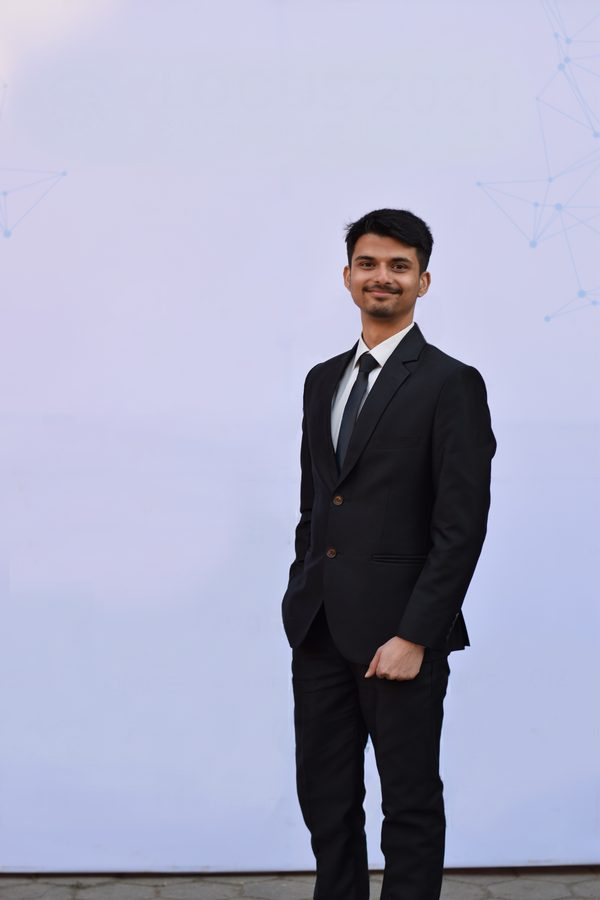
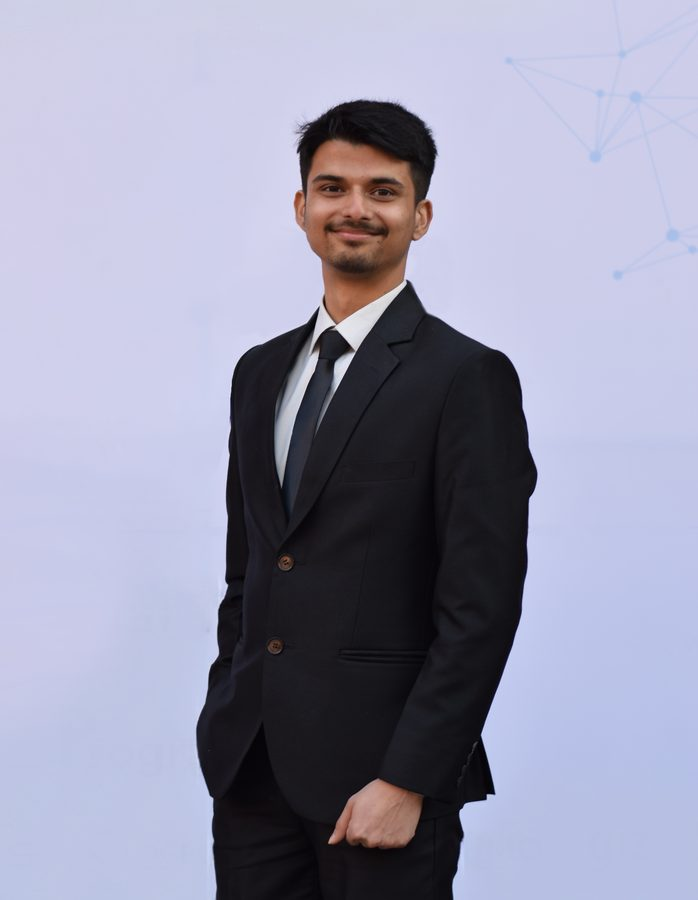
Fill in roles and photos for Gaurav, Jebish, and Niranjan
Roles came from the uploaded filenames: Jebish Pradhan (Vice
President), Gaurav Neupane (Secretary), Niranjan Chapagain
(Membership Growth Chairperson). Placed VP and Secretary near the
top alongside President/IT Lead as senior officer roles. Also
replaced Prabin Paudel's photo with the higher-res version that was
re-uploaded (compressed from 7.4MB to 28KB, same photo). All new
photos compressed and moved into public/team/ with clean filenames.

diff --git a/src/pages/Team.jsx b/src/pages/Team.jsx
@@ -4,7 +4,9 @@
 // entry below with { name, role, photo, linkedin? }.
 const MEMBERS = [
   { name: "Prabin Paudel", role: "President", photo: "/team/prabin-paudel.jpg", linkedin: "https://www.linkedin.com/in/prabin-paudel-a8a315231/" },
+  { name: "Jebish Pradhan", role: "Vice President", photo: "/team/jebish-pradhan.jpg", linkedin: "https://www.linkedin.com/in/jebishpradhan/" },
   { name: "Pawan Raj Pandey", role: "IT Lead", photo: "/team/pawan-raj-pandey.jpg", linkedin: "https://www.linkedin.com/in/pawanrajpandey/" },
+  { name: "Gaurav Neupane", role: "Secretary", photo: "/team/gaurav-neupane.jpg", linkedin: "https://www.linkedin.com/in/gaurav-neupane-64a0122a3/" },
 
   { name: "Sijen Dangol", role: "Immediate Past President", photo: "/team/sijen-dangol.jpg", linkedin: "https://www.linkedin.com/in/sijendangol/" },
   { name: "Ujjwal Karki", role: "Past President 24-25", photo: "/team/ujjwal-karki.jpg" },
@@ -16,15 +18,11 @@ const MEMBERS = [
   { name: "Prabin Buddhacharya", role: "Treasurer", photo: "/team/prabin-buddhacharya.jpg", linkedin: "https://www.linkedin.com/in/beprabin/" },
   { name: "Dilshan Mansuri", role: "Business Head", photo: "/team/dilshan-mansuri.jpg", linkedin: "https://www.linkedin.com/in/dilshan-mansuri-429a0327b/" },
   { name: "Mili Koirala", role: "Chief Empowerment Officer", photo: "/team/mili-koirala.jpg", linkedin: "https://www.linkedin.com/in/mili-koirala/" },
+  { name: "Niranjan Chapagain", role: "Membership Growth Chairperson", photo: "/team/niranjan-chapagain.jpg", linkedin: "https://www.linkedin.com/in/niranjan-chapagain-97453624a/" },
   { name: "Pratima Paudel", role: "Women Empowerment Officer", photo: "/team/pratima-paudel.jpg" },
   { name: "Prerana Poudel", role: "Health Head", photo: "/team/prerana-poudel.jpg" },
   { name: "Rasmita KC", role: "Health Advisor", photo: "/team/rasmita-kc.jpg", linkedin: "https://www.linkedin.com/in/rasmita-k-c-26623b3b9/" },
   { name: "Priyanka Bajracharya", role: "Finance Advisor", photo: "/team/priyanka-bajracharya.jpg" },
-
-  // Added via LinkedIn links only — no photo or confirmed role yet.
-  { name: "Jebish Pradhan", role: "Member", linkedin: "https://www.linkedin.com/in/jebishpradhan/" },
-  { name: "Niranjan Chapagain", role: "Member", linkedin: "https://www.linkedin.com/in/niranjan-chapagain-97453624a/" },
-  { name: "Gaurav Neupane", role: "Member", linkedin: "https://www.linkedin.com/in/gaurav-neupane-64a0122a3/" },
 ];
 
 export default function Team() {
